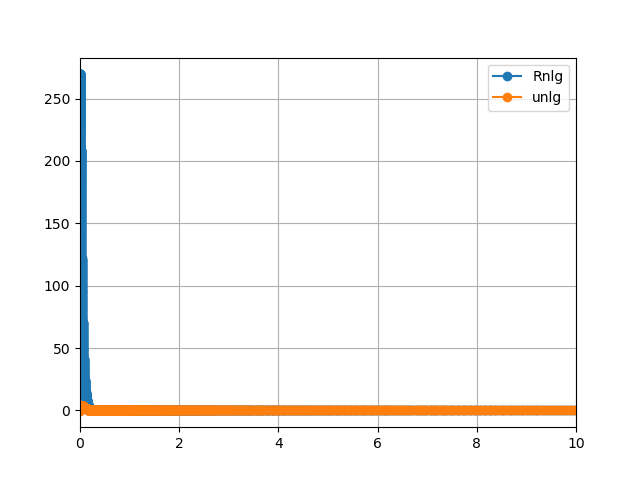
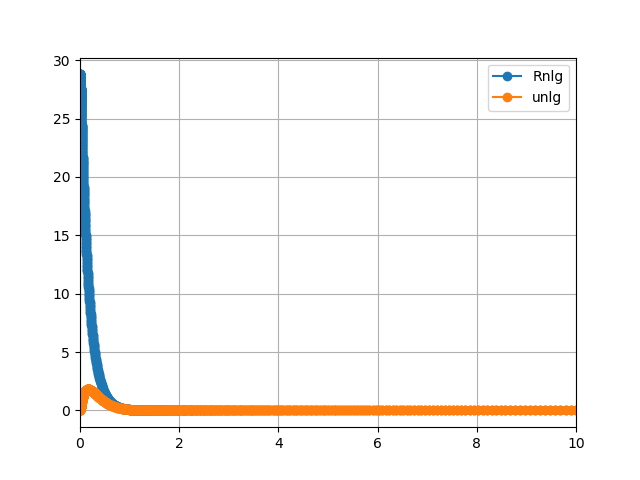
Trying to refactor, does not work yet

diff --git a/hotbit/KS_atom.py b/hotbit/KS_atom.py
@@ -1,0 +1,87 @@
+import numpy as np
+from PW92 import *
+from GLOBAL import *
+
+def V_nuclear(Z, r):
+    return -Z/r
+
+
+def guess_density(Z, rgrid):
+    """ Guess initial density. """
+    r2 = 0.02*Z # radius at which density has dropped to half; improve this!
+    dens = np.exp( -rgrid/(r2/np.log(2)) )
+    dens = dens/radialgrid_integrate( dens, rgrid,use_dV=True)*nel
+    #pl.plot(self.rgrid,dens)
+    return dens
+
+def radialgrid_integrate(f, rgrid, use_dV=False):
+    """
+    Integrate function f (given with N grid points).
+    int_rmin^rmax f*dr (use_dv=False) or int_rmin^rmax*f dV (use_dV=True)
+    """
+    N = len(rgrid)
+    dr = rgrid[1:N] - rgrid[0:N-1]
+    r0 = rgrid[0:N-1] + dr/2
+    # first dV is sphere (treat separately), others are shells
+    dV = 4*np.pi*r0**2 * dr
+    dV *= (4*np.pi*rmax**3/3)/sum(dV)
+    if use_dV:
+        return ( (f[0:N-1]+f[1:N])*dV).sum()*0.5
+    else:
+        return ( (f[0:N-1]+f[1:N])*dr).sum()*0.5
+
+
+def calculate_Hartree_potential():
+    """
+    Calculate Hartree potential.
+
+    Everything is very sensitive to the way this is calculated.
+    If you can think of how to improve this, please tell me!
+
+    """
+    #dV = self.grid.get_dvolumes()
+    
+    N = len(rgrid)
+
+    dr = rgrid[1:N] - rgrid[0:N-1]
+    r0 = rgrid[0:N-1] + dr/2
+    dV = 4*np.pi*r0**2 * dr
+    dV *= (4*np.pi*rmax**3/3)/sum(dV)
+    #
+    n0 = 0.5*( dens[1:] + dens[:-1] )
+    n0 *= nel/sum(n0*dV)
+
+    lo, hi = np.zeros(N), np.zeros(N)
+    lo[0] = 0.0
+    for i in range(1,N):
+        lo[i] = lo[i-1] + dV[i-1]*n0[i-1]
+
+    hi[-1] = 0.0
+    for i in range(N-2,-1,-1):
+        hi[i] = hi[i+1] + n0[i]*dV[i]/r0[i]
+
+    for i in range(N):
+        VHartree[i] = lo[i]/rgrid[i] + hi[i]
+
+def calculate_veff():
+    """ Calculate effective potential. """
+    for i in range(N):
+        vxc[i] = vxc_PW92(dens[i])
+    #
+    return nucl + VHartree + vxc + conf
+
+
+def construct_coefficients(l, eps):
+    c = 137.036
+    c2 = np.ones(N)
+    if scalarrel == False:
+        c0 = -2*( 0.5*l*(l+1) + rgrid**2*(veff-eps) )
+        c1 = -np.ones(N)
+    else:
+        print('SHOULD NOT PASS HERE !!!')
+        # from Paolo Giannozzi: Notes on pseudopotential generation
+        #ScR_mass = array([1 + 0.5*(eps-V)/c**2 for V in self.veff])
+        #c0 = -l*(l+1) - 2*ScR_mass*self.rgrid**2*(self.veff-eps) - self.dveff*self.rgrid/(2*ScR_mass*c**2)
+        #c1 = self.rgrid*self.dveff/(2*ScR_mass*c**2) - 1
+    return c0, c1, c2
+

diff --git a/hotbit/atoms_data.py b/hotbit/atoms_data.py
@@ -11,17 +11,33 @@
 #
 from numpy import nan
 
-atoms_data={}
+atoms_data = {}
 
-atoms_data["H"] ={"Z":1, "symbol":"H", "name":"hydrogen", "mass": 1.0079,  "R_cov":0.31,"R_vdw":1.20,"IE":0.0135,"EA":72.27 }
+atoms_data["H"] = {
+        "Z":1,
+        "symbol":"H",
+        "name":"hydrogen",
+        "mass": 1.0079, 
+        "R_cov":0.31,
+        "R_vdw":1.20,
+        "IE":0.0135,
+        "EA":72.27
+}
 
-atoms_data["He"]={"Z":2, "symbol":"He"}
+atoms_data["He"] = {
+        "Z":2,
+        "symbol":"He"
+}
 
-atoms_data["Li"]={"Z":3, "symbol":"Li", "R_cov":1.28}
+atoms_data["Li"] = {
+        "Z":3,
+        "symbol":"Li",
+        "R_cov":1.28
+}
 
-atoms_data["Be"]={"Z":4, "symbol":"Be"}
+atoms_data["Be"] = {"Z":4, "symbol":"Be"}
 
-atoms_data["B"] ={"Z":5, "symbol":"B", "name":"boron",    "mass":10.81,    "R_cov":0.84,"R_vdw":1E99,"IE":8.294, "EA":0.277}
+atoms_data["B"] = {"Z":5, "symbol":"B", "name":"boron",    "mass":10.81,    "R_cov":0.84,"R_vdw":1E99,"IE":8.294, "EA":0.277}
 
 atoms_data["C"] ={"Z":6, "symbol":"C", "name":"carbon",   "mass":12.0107,  "R_cov":0.76,"R_vdw":1.70,"IE":11.256,"EA":1.594}
 
@@ -51,7 +67,9 @@ atoms_data["K"] ={"Z":19,"symbol":"K", "name":"potassium","mass":39.0983,  "R_co
 
 atoms_data["Ti"]={"Z":22,"symbol":"Ti","name":"titanium", "mass":47.8760,  "R_cov":1.60,"R_vdw":2.15,"IE":6.825, "EA":0.078}
 
-atoms_data["Co"] = {"Z": 27, "symbol":"Co"}
+atoms_data["Co"] = {"Z": 27, "symbol": "Co"}
+
+atoms_data["Ni"] = {"Z": 28, "symbol": "Ni"}
 
 atoms_data["Zn"] = {"Z":30,"symbol":"Zn", "name":"zinc", "mass":65.38}
 
@@ -93,6 +111,7 @@ valence_orbitals["Ar"]=[]
 valence_orbitals["K"]=["4s","4p"]
 valence_orbitals["Ti"]=["3d","4s","4p"]
 valence_orbitals["Co"]=["3d","4s","4p"]
+valence_orbitals["Ni"]=["3d","4s","4p"]
 valence_orbitals["Zn"]=["3d", "4s"]
 valence_orbitals["Kr"]=[]
 valence_orbitals["Sr"]=["5s","5p","4d"]
@@ -131,6 +150,7 @@ aux=[ ["H", "",{"1s":1}],\
       ["K", "Ar",{"4s":1, "4p":0}],\
       ["Ti","Ar",{"3d":2, "4s":2, "4p":0}],\
       ["Co","Ar",{"3d":7, "4s":2, "4p":0}],\
+      ["Ni","Ar",{"3d":8, "4s":2, "4p":0}],\
       ["Zn","Ar",{"3d":10,"4s":2}],\
       ["Kr","Ar",{"3d":10,"4s":2,"4p":6}],\
       # fifth row

diff --git a/hotbit/calculate_energies.py b/hotbit/calculate_energies.py
@@ -16,24 +16,24 @@ def calculate_energies():
     confinement_energy = radialgrid_integrate( conf*dens, rgrid, use_dV=True )
     total_energy = bs_energy- Hartree_energy - vxc_energy + exc_energy
 
-    print("\n\nEnergetics:")
-    print("-------------")
-    print("\nsingle-particle energies")
-    print("------------------------")
+    print('\n\nEnergetics:')
+    print('-------------')
+    print('\nsingle-particle energies')
+    print('------------------------')
     for n,l,nl in list_states(maxn, maxl, occu):
-        print("%s, energy %22.15f" % (nl,enl[nl]))
+        print('%s, energy %22.15f' % (nl,enl[nl]))
 
-    print("\nvalence orbital energies")
-    print("--------------------------")
-    for nl in atoms_data[symbol]["valence_orbitals"]:
-        print("%s, energy %22.15f" %(nl, enl[nl]))
+    print('\nvalence orbital energies')
+    print('--------------------------')
+    for nl in atoms_data[symbol]['valence_orbitals']:
+        print('%s, energy %22.15f' %(nl, enl[nl]))
 
-    print("\n")
-    print("total energies:")
-    print("---------------")
-    print("sum of eigenvalues:     %22.15f" % bs_energy)
-    print("Hartree energy:         %22.15f" % Hartree_energy)
-    print("vxc correction:         %22.15f" % vxc_energy)
-    print("exchange + corr energy: %22.15f" % exc_energy)
-    print("----------------------------")
-    print("total energy:           %22.15f\n\n" % total_energy)
+    print('\n')
+    print('total energies:')
+    print('---------------')
+    print('sum of eigenvalues:     %22.15f' % bs_energy)
+    print('Hartree energy:         %22.15f' % Hartree_energy)
+    print('vxc correction:         %22.15f' % vxc_energy)
+    print('exchange + corr energy: %22.15f' % exc_energy)
+    print('----------------------------')
+    print('total energy:           %22.15f\n\n' % total_energy)

diff --git a/hotbit/GLOBAL.py b/hotbit/GLOBAL.py
@@ -1,3 +1,34 @@
+from atoms_data import *
+import numpy as np
+from copy import copy
+
+angular_momenta = ['s','p','d','f','g','h','i','j','k','l']
+def orbit_transform(nl,string):
+    """ Transform orbitals into strings<->tuples, e.g. (2,1)<->'2p'. """
+    if string==True and type(nl)==type(''):
+        return nl #'2p'->'2p'
+    elif string==True:
+        return '%i%s' %(nl[0],angular_momenta[nl[1]]) #(2,1)->'2p'
+    elif string==False and type(nl)==type((2,1)):
+        return nl      #(2,1)->(2,1)
+    elif string==False:
+        l=angular_momenta.index(nl[1])
+        n=int(nl[0])
+        return (n,l)  # '2p'->(2,1)
+
+
+def list_states(maxn, maxl, occu):
+    """ List all potential states {(n,l,'nl')}. """
+    states = []
+    for l in range(maxl+1):
+        for n in range(1,maxn+1):
+            nl = orbit_transform((n,l),string=True)
+            if nl in occu:
+                states.append((n,l,nl))
+    return states
+
+symbol = "C"
+
 configuration = {}
 valence = []
 confinement = None
@@ -78,3 +109,18 @@ xgrid = np.linspace(0,np.log(rmax/rmin),N)
 rgrid = rmin*np.exp(xgrid)
 
 #grid = RadialGrid(rgrid)
+
+
+veff = np.zeros(N)
+VHartree = np.zeros(N)
+vxc = np.zeros(N)
+exc = np.zeros(N)
+
+# make confinement and nuclear potentials
+#conf = array([self.confinement_potential(r) for r in self.rgrid])
+conf = np.zeros(N)
+
+#nucl = array([self.V_nuclear(r) for r in self.rgrid])
+nucl = np.zeros(N)
+
+dens = np.zeros(N)

diff --git a/hotbit/main.py b/hotbit/main.py
@@ -1,27 +1,11 @@
 from __future__ import print_function
 import numpy as np
-from copy import copy
 import matplotlib.pyplot as plt
-from numpy import pi
-from math import sqrt, log
 from scipy.interpolate import splrep, splev
 
-symbol = "Co"
+from KS_atom import *
+from GLOBAL import *
 
-exec(open("list_states.py").read())
-exec(open("orbit_transform.py").read())
-exec(open("atoms_data.py").read())
-exec(open("GLOBAL.py").read())
-
-exec(open("V_nuclear.py").read())
-exec(open("guess_density.py").read())
-exec(open("radialgrid_integrate.py").read())
-exec(open("calculate_Hartree_potential.py").read())
-exec(open("exc_PW92.py").read())
-exec(open("vxc_PW92.py").read())
-exec(open("calculate_veff.py").read())
-
-exec(open("construct_coefficients.py").read())
 exec(open("shoot.py").read())
 exec(open("solve_eigenstates.py").read())
 
@@ -43,21 +27,9 @@ for n,l,nl in list_states(maxn,maxl,occu):
     enl[nl] = 0.0
     d_enl[nl] = 0.0
 
-
-# make confinement and nuclear potentials; intitial guess for veff
-
-#conf = array([self.confinement_potential(r) for r in self.rgrid])
-conf = np.zeros(N)
-
-#nucl = array([self.V_nuclear(r) for r in self.rgrid])
-nucl = V_nuclear(Z, rgrid)
-
-veff = nucl + conf
 dens = guess_density(Z, rgrid)
-
-VHartree = np.zeros(N)
-vxc = np.zeros(N)
-exc = np.zeros(N)
+nucl = V_nuclear(Z, rgrid)
+veff = nucl + conf
 
 calculate_Hartree_potential()
 

diff --git a/hotbit/PW92.py b/hotbit/PW92.py
@@ -1,3 +1,6 @@
+import numpy as np
+from math import sqrt, log, pi
+
 def exc_PW92(n,der=0):
     """ Exchange-correlation with electron density n. """
     SMALL = 1E-90
@@ -31,3 +34,13 @@ def e_corr_PW92(n,der=0):
         return ( -2*c0*a1*log(1+aux**-1) \
                -2*c0*(1+a1*rs)*(1+aux**-1)**-1*(-aux**-2)\
                *2*c0*(b1/(2*sqrt(rs))+b2+3*b3*sqrt(rs)/2+2*b4*rs) )*( -(4*pi*n**2*rs**2)**-1 )
+
+def vxc_PW92(n):
+    """ Exchange-correlation potential (functional derivative of exc). """
+    eps = 1E-9*n  # ???????
+    SMALL = 1E-90
+    if n < SMALL:
+        return 0.0
+    else:
+        return exc_PW92(n) + n*exc_PW92(n,der=1)
+
